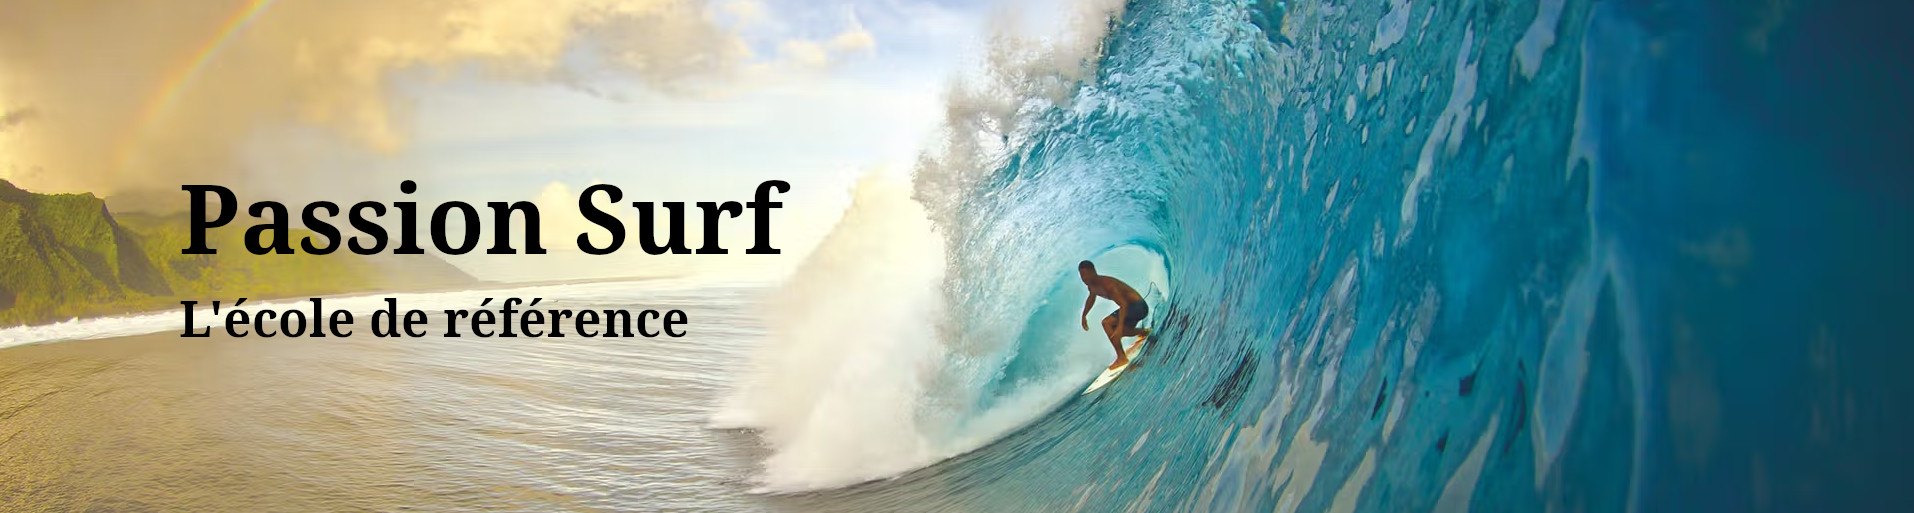
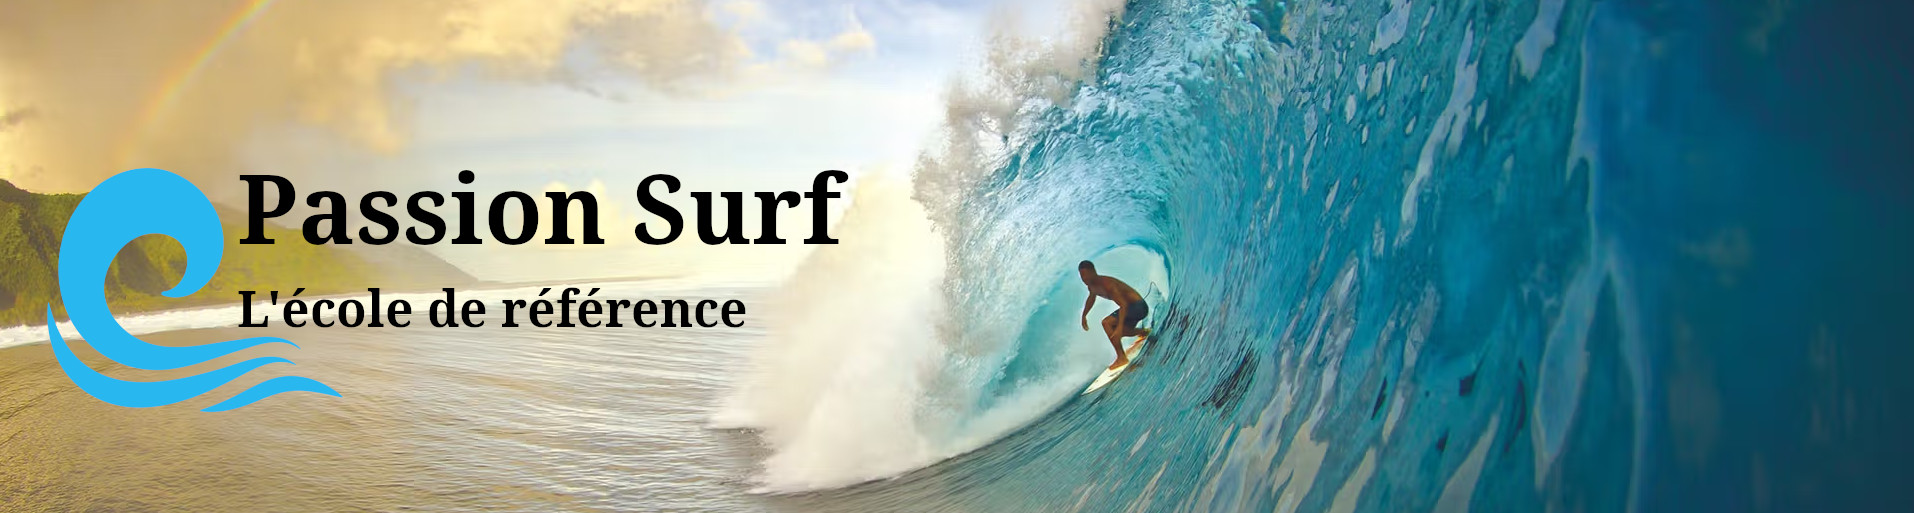
tp conclusion 2

Changed region(s): [[0.0, 0.3119, 0.4624, 0.8109]]

diff --git a/index.html b/index.html
@@ -14,7 +14,7 @@
     <nav class="navbar navbar-expand-lg">
         <div class="container-fluid">
             <img src="vague.png" alt="logo passion surf" height="70" width="70">
-            <a class="navbar-brand" href="#">Passion<br>Surf</a>
+            <a class="navbar-brand" href="#">Passion Surf</a>
             <button class="navbar-toggler" type="button" data-bs-toggle="collapse"
                 data-bs-target="#navbarSupportedContent" aria-controls="navbarSupportedContent" aria-expanded="false"
                 aria-label="Toggle navigation">
@@ -62,15 +62,50 @@
                 <h3>Passion</h3>
                 <p>Uné école animée<br>par de vrais passionné(e)s</p>
             </div>
-            <div class="kpi-card kpi-2">
+            <div class="kpi-card kpi-1">
                 <h3>Plaisir</h3>
                 <p>Notre plaisir :<br>voir vos sourires pendant les cours</p>
             </div>
-            <div class="kpi-card kpi-3">
+            <div class="kpi-card kpi-1">
                 <h3>Qualité</h3>
                 <p>La qualité de nos enseignements<br>et de notre matériel</p>
             </div>
         </section>
+        <h2>Passion Surf, l'école pour vos cours de surf</h2>
+        <div class="image-flex">
+            <div>
+                <img src="vague.png" alt="logo Passion Surf" height="300" width="300">
+            </div>
+            <div class="image-flex-content">
+                <p>Créée en 2005, notre école, c’est plus de 25 ans de plaisir à partager le surf. <br>Tous les
+                    responsables de nos structures sont des amoureux du surf, titulaires du brevet d’état, <br>qui
+                    passent la plus grande partie de leur temps dans ou proche de l’océan.
+                </p>
+                <p>
+                    Notre expérience de l’océan et du tourisme garantit des vacances sportives et un enseignement de
+                    qualité. <br>Choisissez notre école de surf et partez à l’aventure pour vos prochains cours de surf.
+                </p>
+                <p>
+                    Tentez l'expérience!
+                </p>
+            </div>
+        </div>
+        <div class="image">
+            <img src="surf.jpg" alt="image avec plusieurs personnes faisant du surf" height="500" width="1500">
+        </div>
+        <h2>Nos services</h2>
+        <ul>
+            <li><span class="bold">Classes de surf</span>, spécialement conçues pour les élèves des écoles
+                primaires et collèges.</li>
+            <li><span class="bold">Séminaires d'entreprises</span>, pour renforcer l'esprit d'équipe et le
+                bien-être de vos collaborateurs.</li>
+            <li><span class="bold">Surf étudiant</span>, leçons en petits groupes à tarifs réduits pour
+                les étudiants.</li>
+            <li><span class="bold">Surf Event privée</span>, pour les groupes d'amis, qu'importe votre âge.</li>
+            <li><span class="bold">Session unitaire individuelle</span>, rejoignez un petit groupe pour vous
+                initier au surf.</li>
+        </ul>
+
     </main>
 
 </body>

diff --git a/style.css b/style.css
@@ -4,21 +4,31 @@
   width: 100%;
   z-index: 1030;
 
-  background-color: rgba(255, 255, 255, 0.9);
+  background-color: rgba(255, 255, 255, 0.8);
 }
 
-body{
-    background-color: beige;
+body {
+  background-color: beige;
 }
 
 .header-image {
-  margin-top: 80px;
+  margin-top: 85px;
 }
 
 .header-image img {
   width: 100%;
   height: 400px;
   object-fit: cover;
+}
+
+.image {
+  display: flex;
+  width: 100%;
+  height: 400px;
+  object-fit: cover;
+  align-items: center;
+  justify-content: center;
+  margin-bottom: 50px;
 }
 
 .container {
@@ -41,25 +51,65 @@ body{
 
 .kpi-card {
   color: white;
-  background-color: royalblue;
+  background-color: #007a8c;
   padding: 20px;
   border-radius: 10px;
   text-align: center;
   transition: transform 0.2s ease;
+  margin-bottom: 60px;
 }
 
 .kpi-card.kpi-1 {
-  border-top: 4px solid blue;
+  border-top: 4px solid aqua;
 }
 
 .kpi-card.kpi-2 {
-  border-top: 4px solid white;
+  border-top: 4px solid aqua;
 }
 
 .kpi-card.kpi-3 {
-  border-top: 4px solid red;
+  border-top: 4px solid aquamarine;
 }
 
 .kpi-card:hover {
-  transform: translateY(-5px);
+  transform: translateY(-10px);
+}
+
+.image-flex {
+  display: flex;
+  max-width: 1500px;
+  margin: auto;
+  align-items: center;
+  gap: 20px;
+}
+
+.image-flex-content {
+  padding: 10px;
+}
+
+h2 {
+  font-weight: bold;
+  text-align: center;
+  font-size: 50px;
+  color: #007a8c;
+}
+
+h3 {
+  font-weight: bold;
+  text-align: center;
+  font-size: 40px;
+  color: white;
+}
+
+p {
+  font-size: 20px;
+}
+
+li {
+  font-size: 20px;
+  line-height: 50px;
+}
+
+.bold {
+  font-weight: bold;
 }
